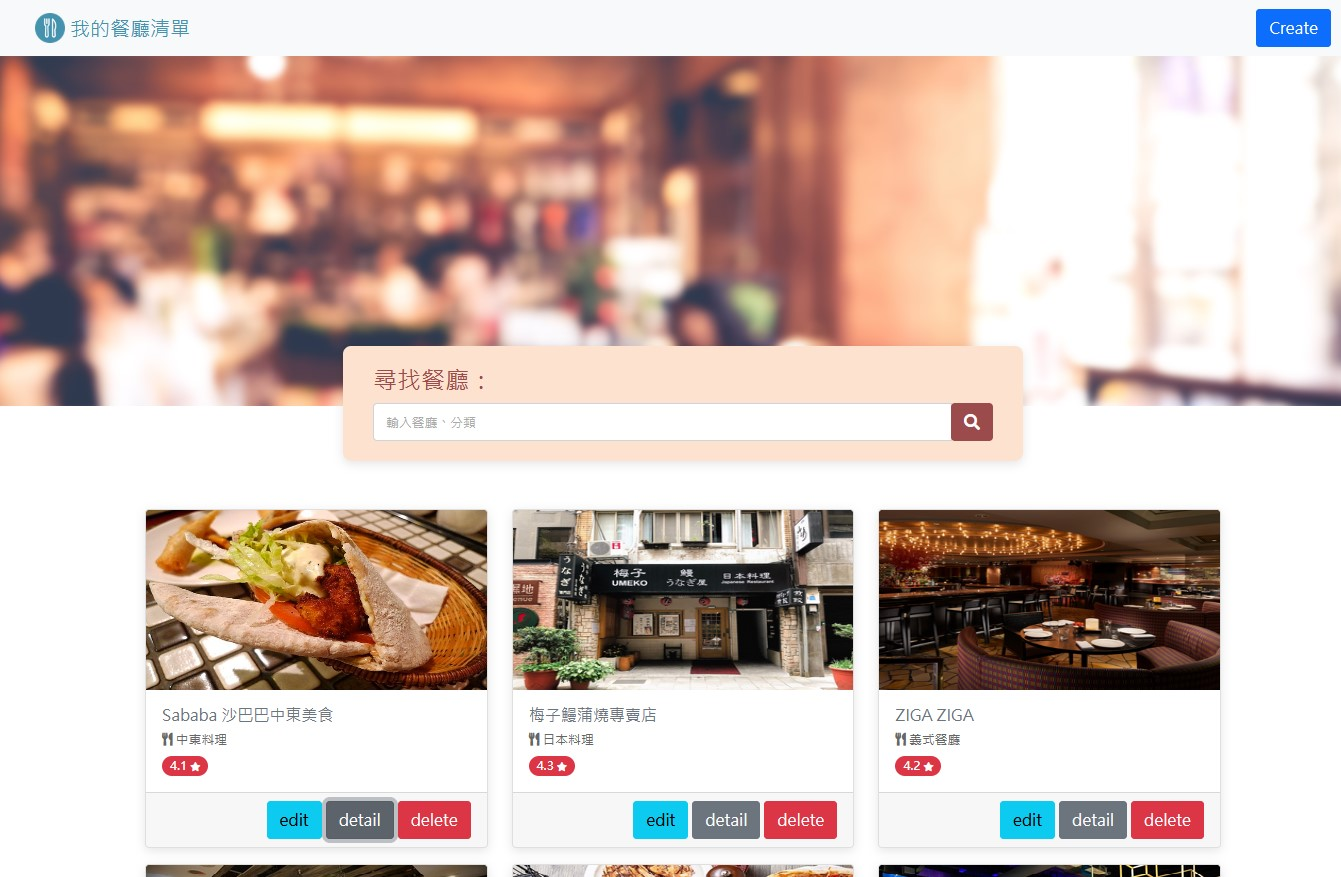
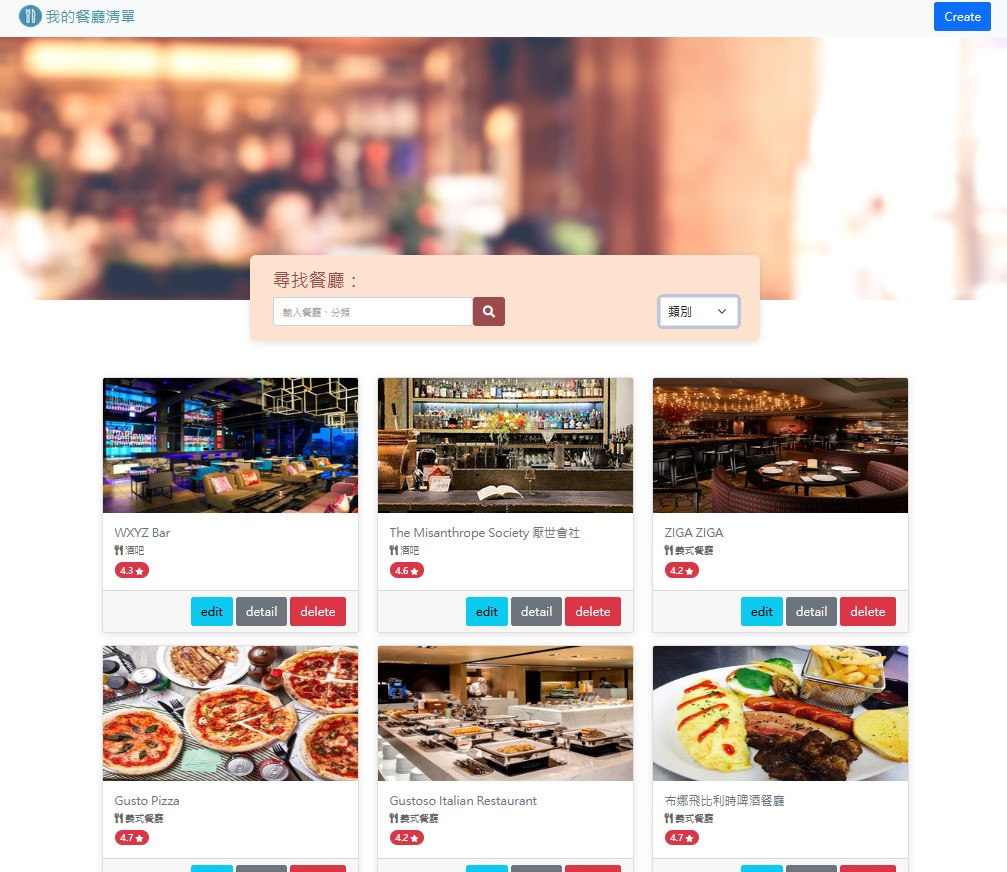
modify README file & change index.jpg

diff --git a/routes/restaurants.js b/routes/restaurants.js
@@ -22,17 +22,17 @@ router.get('/', (req, res, next) => {
        }
        
        function orderMethod(sort) {
-        switch (sort) {
-           case "1":
-             return ["name"];
-           case "2":
-             return ["name", "DESC"];
-           case "3":
-             return ["category", "DESC"];
-           case "4":
-             return ["location"];
-           default:
-             return ['id'];
+          switch (sort) {
+            case '1':
+              return ['name']
+            case '2':
+              return ['name', 'DESC']
+            case '3':
+              return ['category', 'DESC']
+            case '4':
+              return ['location']
+            default:
+              return ['id']
          }
        }
 
@@ -45,14 +45,14 @@ router.get('/', (req, res, next) => {
               raw: true
        })
               .then((restaurants) => {
-                    res.render("index", {
+                    res.render('index', {
                       restaurants,
                       keyword,
                       prev: page > 1 ? page - 1 : page,
                       next: page + 1,
                       page,
                       sort
-                    });
+                    })
               })
               .catch((error) => {
                       error.errorMessage = '資料取得失敗:('

diff --git a/README.md b/README.md
@@ -4,6 +4,8 @@
    
 2. 增加 `CRUD` 功能，使餐廳清單能夠建立新餐廳、修改餐廳詳細資料、刪除餐廳，進行餐廳清單的管理。
 
+3. 增加排序功能，使餐廳可以依照不同英文字母、類別、地區排序。
+
 ## 產品功能
 
 1. 使用者可以瀏覽首頁全部的餐廳
@@ -12,6 +14,7 @@
 4. 點擊餐廳清單頁上方的 `Create` 按鈕，可以建立新的餐廳
 5. 點擊餐廳的 `edit` 按鈕，可以編輯餐廳的詳細資料
 6. 點擊餐廳的 `delete` 按鈕，可以刪除餐廳
+7. 點擊餐廳的類別下拉式選單，可以依照不同方式排序
 
 ## 開發環境
 
@@ -62,21 +65,23 @@ $ npx sequelize db:migrate
 $ npm run seed
 ```
 
-7. 執行 `app.js`
+7. 建立`.env` 檔案，將 `.env.example` 的內容複製到 `.env`
+   
+8. 執行 `app.js`
 
 ```
 $ npm run dev
 ```
 
-8. 終端機顯示網址
+9. 終端機顯示網址
 
 ```
 express server is running on http://localhost:3000
 ```
 
-9. 在瀏覽器輸入網址`http://localhost:3000`，瀏覽專案
+10. 在瀏覽器輸入網址 `http://localhost:3000`，瀏覽專案
 
-10. 若要關閉 `server` ，可以在終端機輸入 `ctrl C`
+11. 若要關閉 `server` ，可以在終端機輸入 `ctrl + C`
 
 ## 專案畫面
 
@@ -95,6 +100,9 @@ express server is running on http://localhost:3000
 7. [mysql2 v3.2.0](https://www.npmjs.com/package/mysql2)：MySQL client
 8. [sequelize v6.30.0](https://sequelize.org/docs/v6/)：Node.js ORM 工具
 9. [sequelize-cli v6.6.0](https://www.npmjs.com/package/sequelize-cli)：Sequelize 指令
+10. [express-session v1.17.3](https://www.npmjs.com/package/express-session)：express middleware
+11. [connect-flash v0.1.1](https://www.npmjs.com/package/connect-flash)：express middleware
+12. [dotenv v16.0.3](https://www.npmjs.com/package/dotenv/v/16.0.3)：讀取 .env 文件環境變數設置的模組
 
 ### 參與者
 
